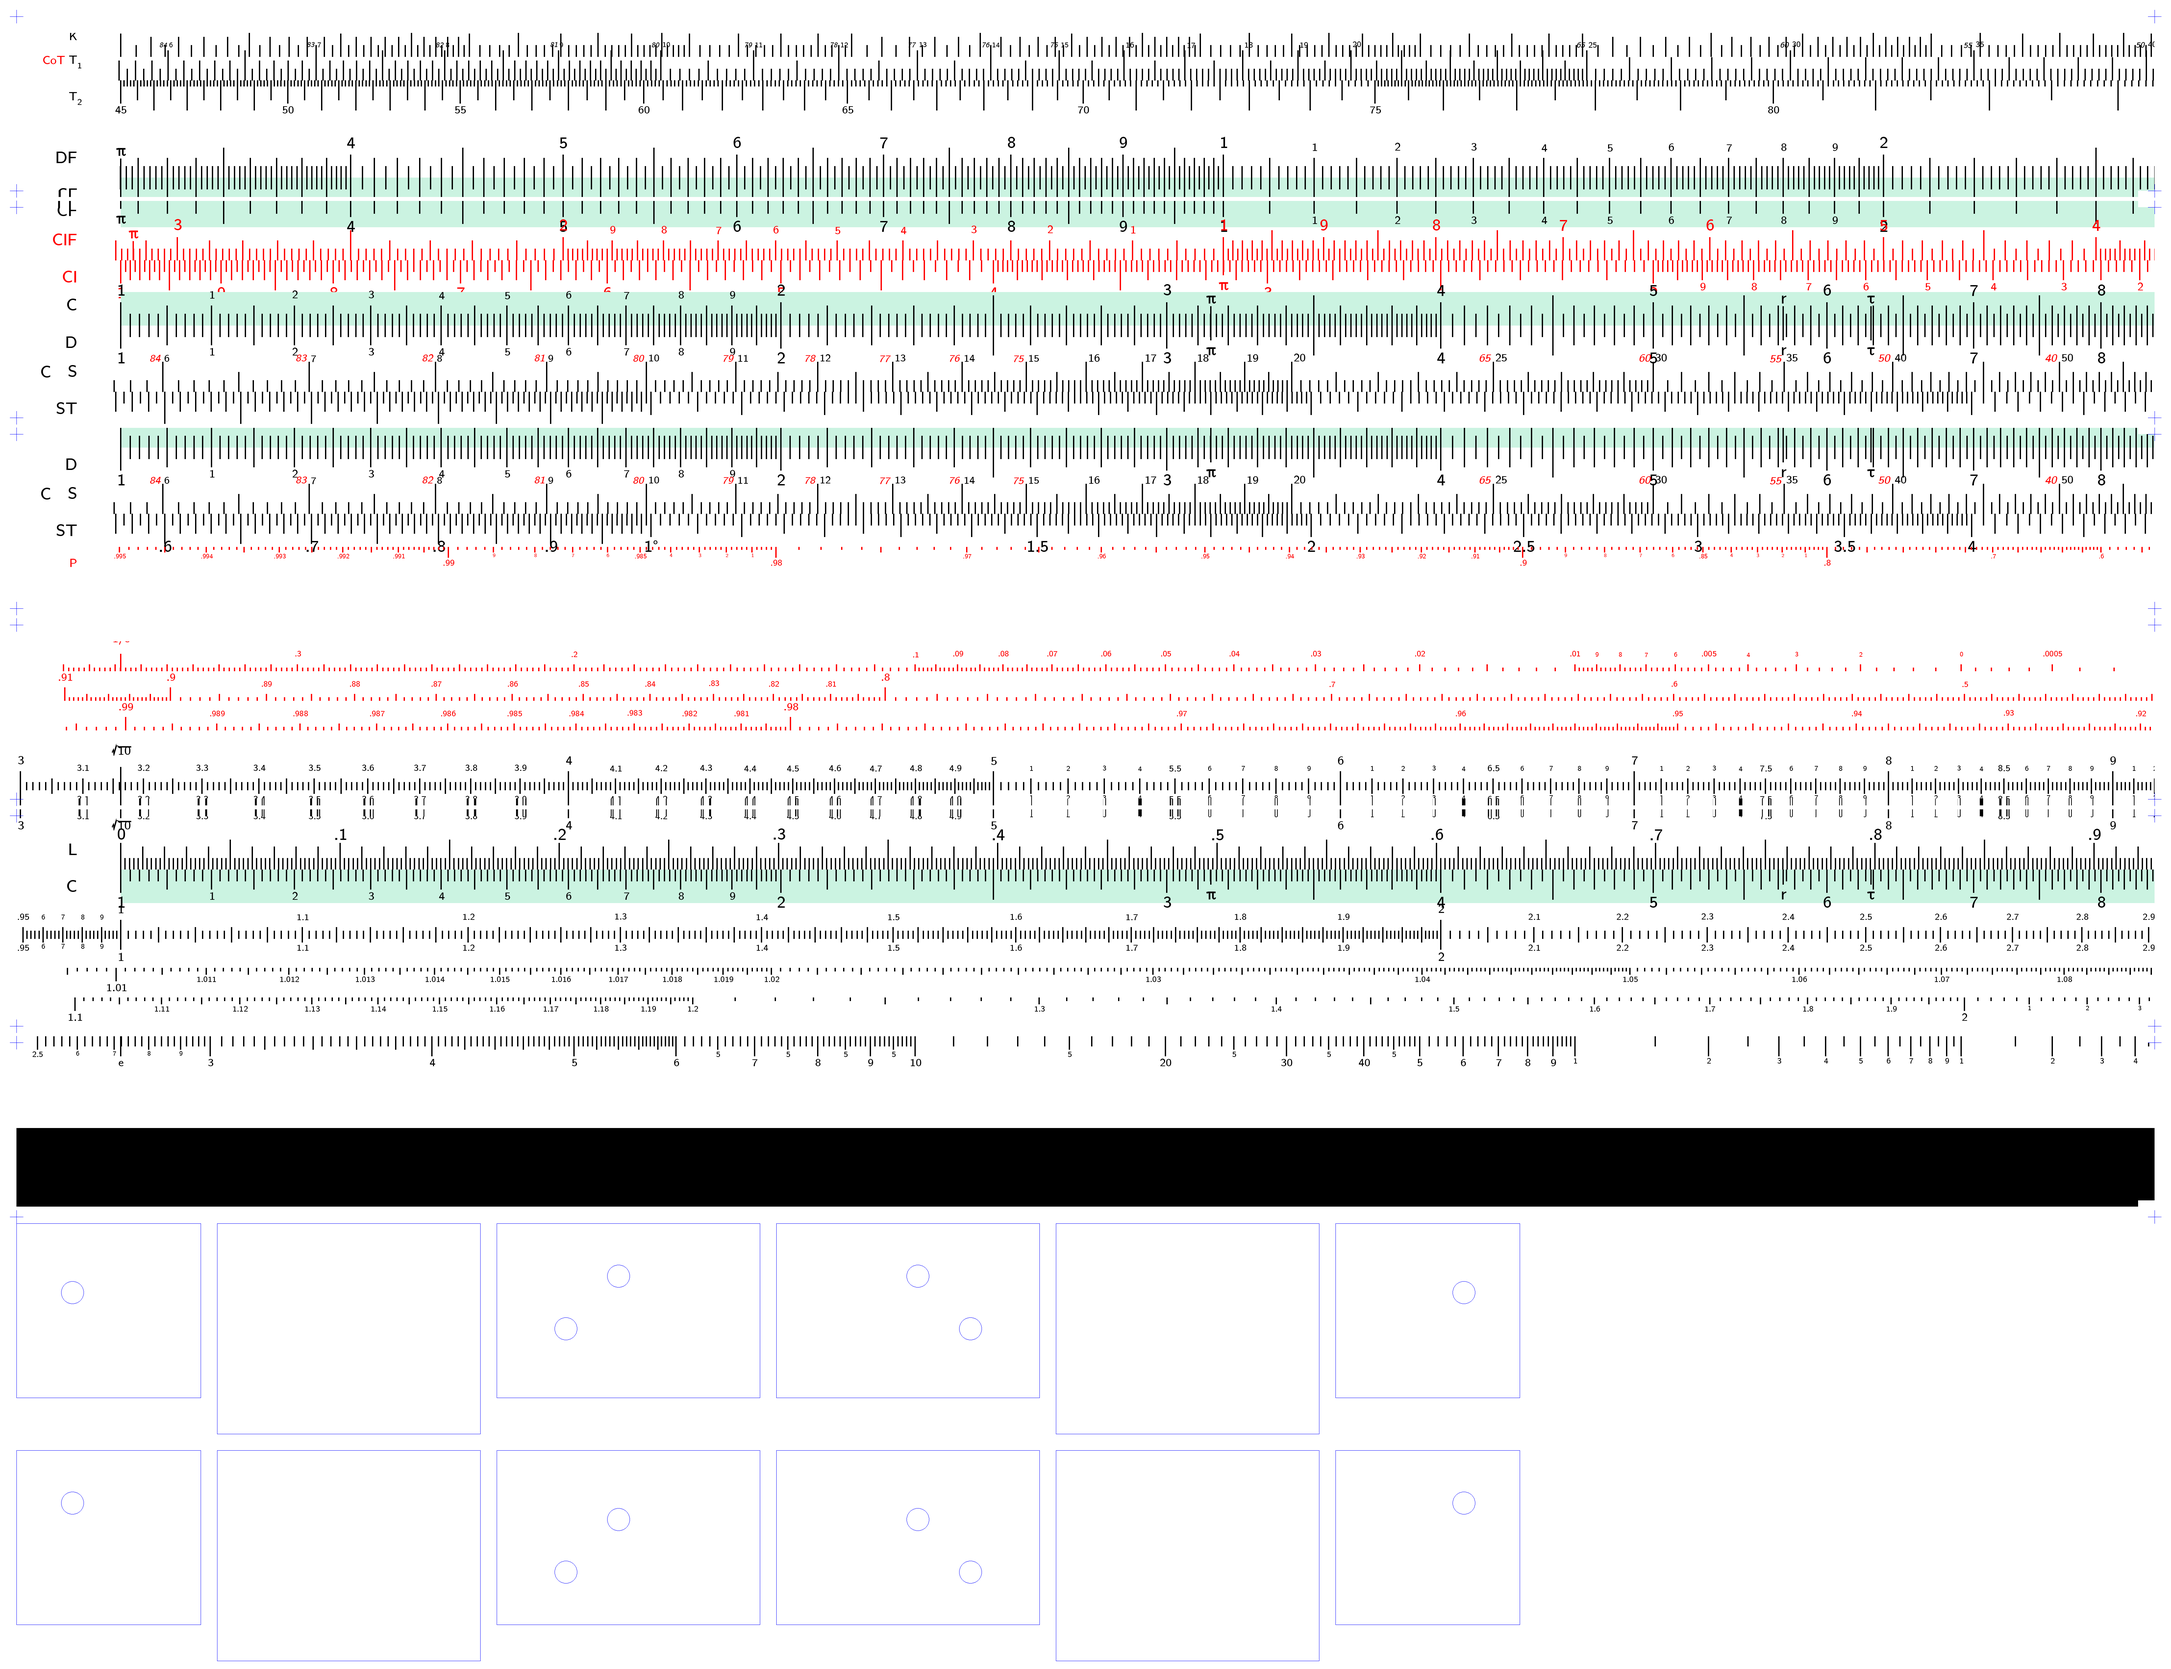
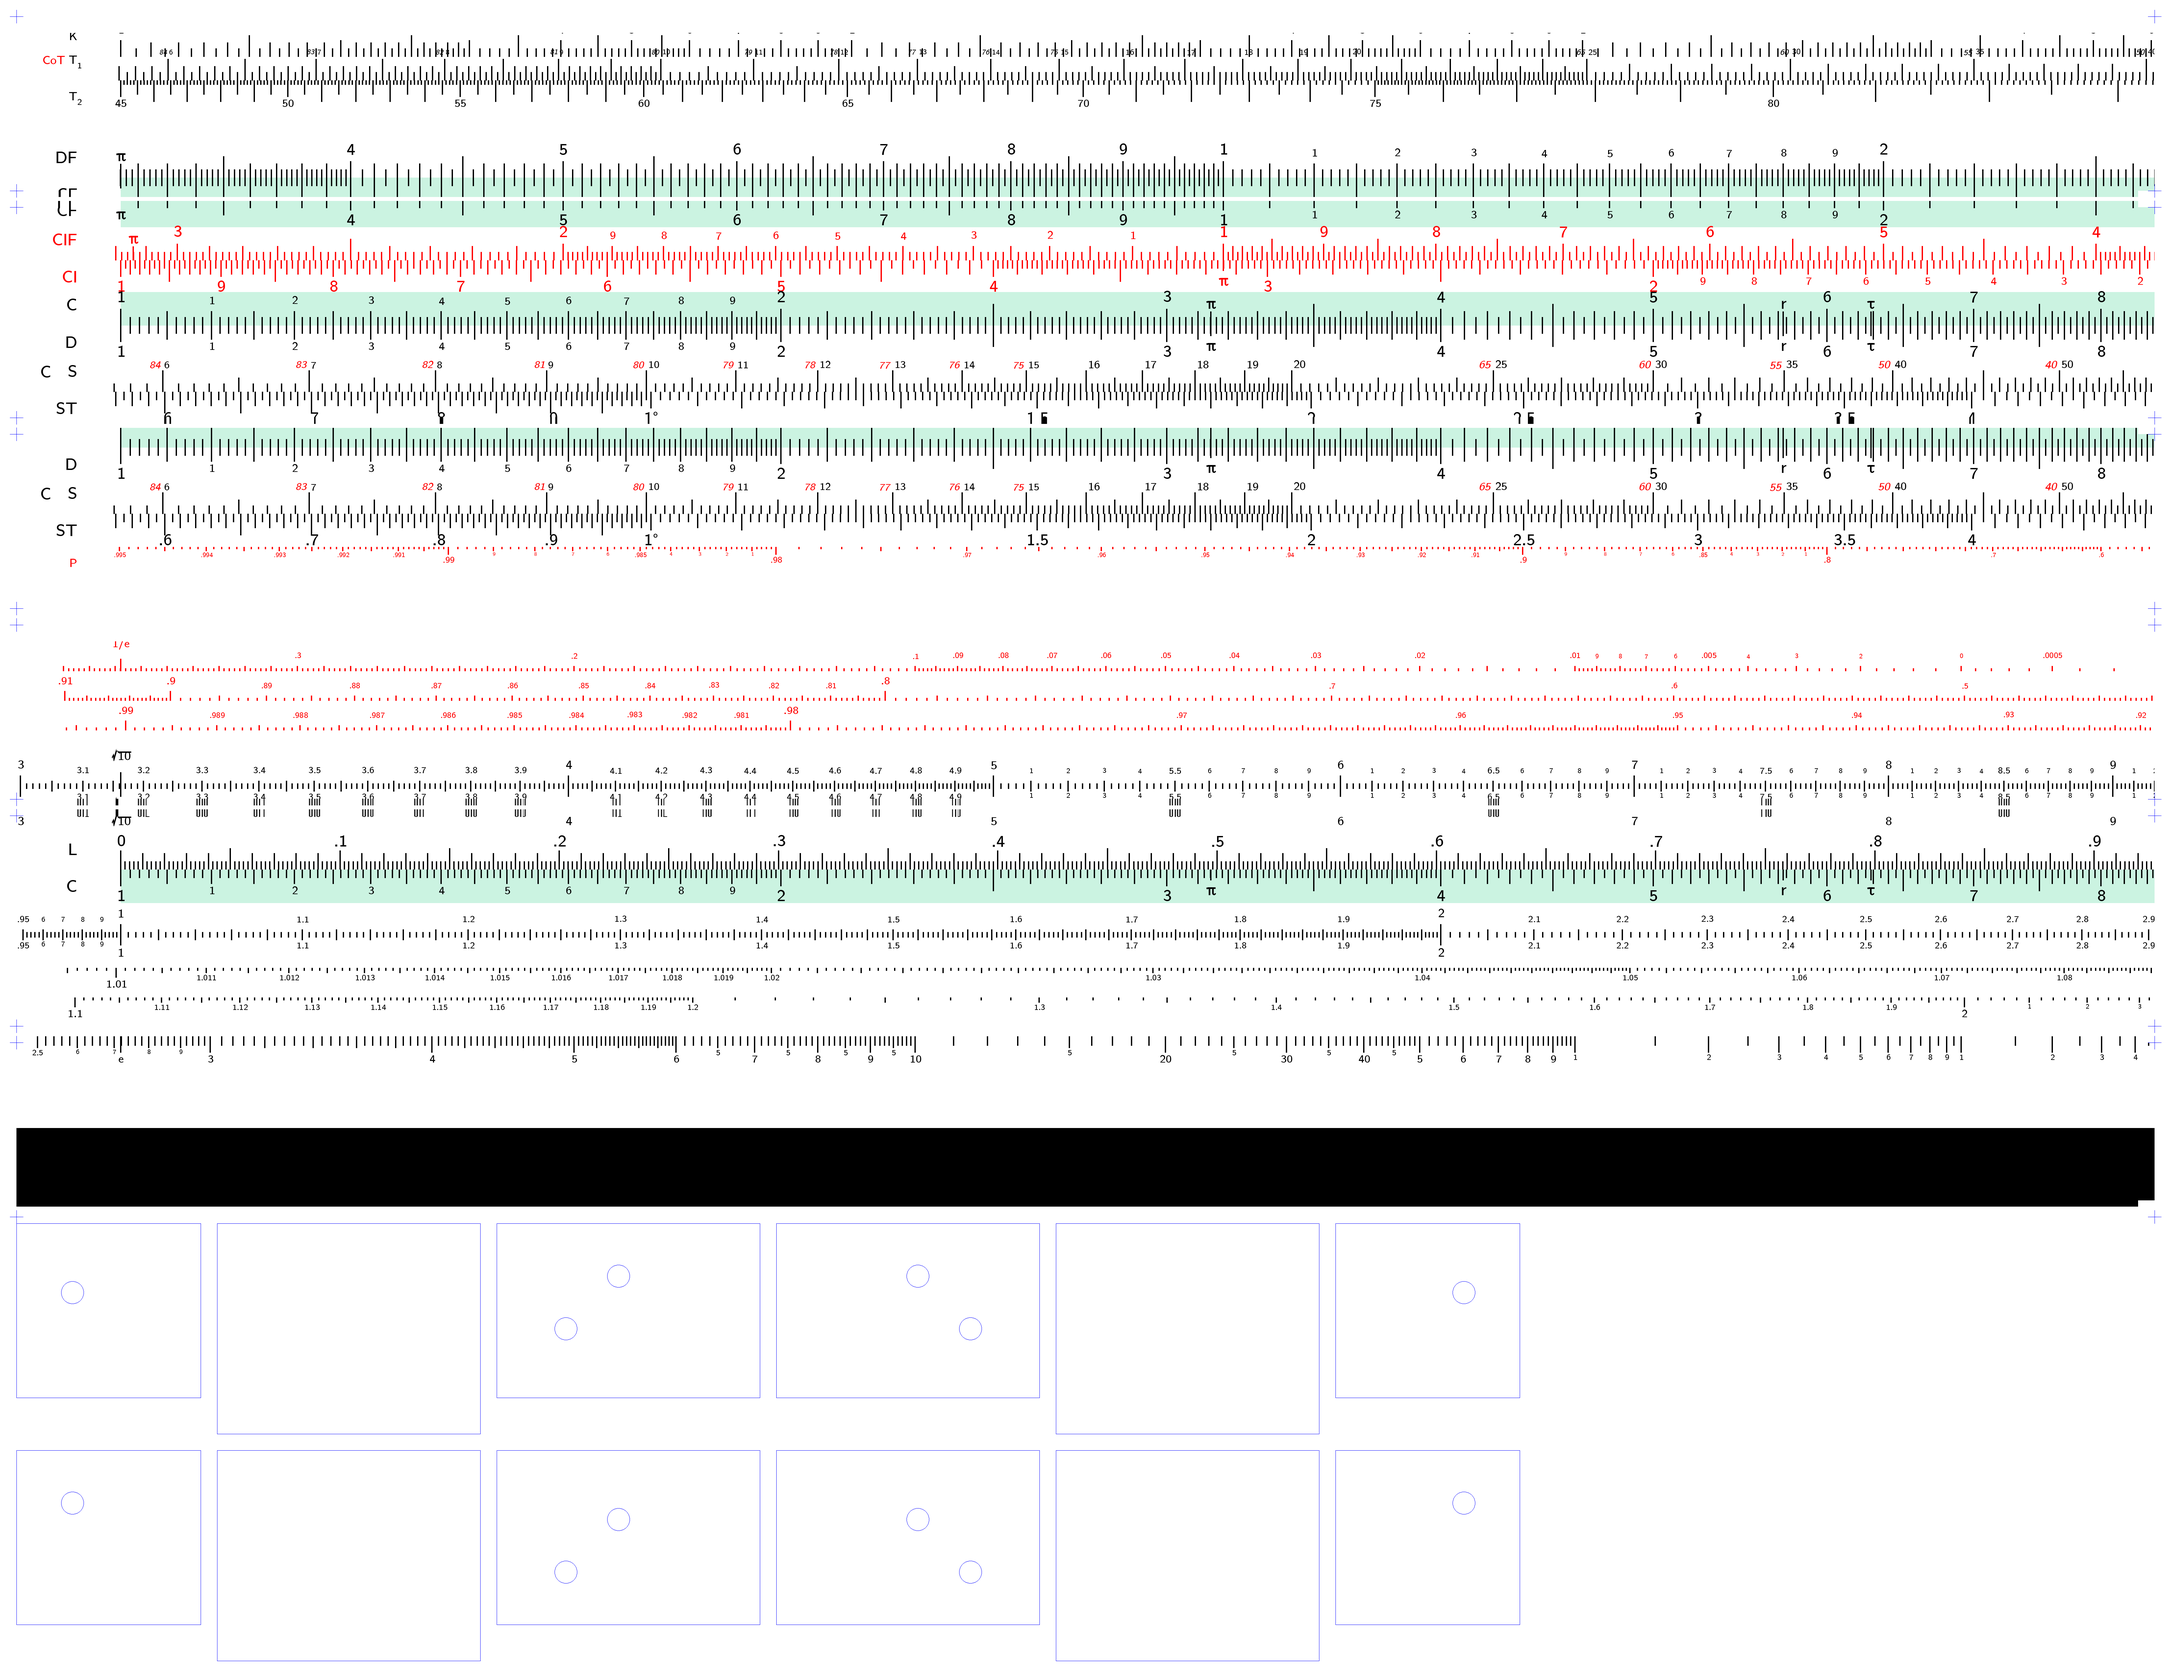
Renamed cutoff code to use the word "brace", internally, and then extended to support a C vs L pattern.
Arc support is TBD for fillets and for the "C" inset.

diff --git a/SlideRule.py b/SlideRule.py
@@ -242,10 +242,14 @@ class Geometry:
     scale_h_overrides: dict[Side, dict[str, int]] = {Side.FRONT: {}, Side.REAR: {}}
     margin_overrides: dict[Side, dict[str, int]] = {Side.FRONT: {}, Side.REAR: {}}
 
+    brace_shape: str = 'L'  # or C
+    brace_offset: int = 30  # offset of metal from boundary
+
     def __init__(self, side_wh: WH, margins_xy: WH, scale_wh: WH, tick_wh: WH,
                  slide_h: int, top_margin: int = None,
                  scale_h_overrides: dict[Side, dict[int: [str]]] = None,
-                 margin_overrides: dict[Side, dict[int: [str]]] = None):
+                 margin_overrides: dict[Side, dict[int: [str]]] = None,
+                 brace_shape: str = None, brace_offset: int = None):
         (self.side_w, self.side_h) = side_wh
         (self.oX, self.oY) = margins_xy
         (self.SL, self.SH) = scale_wh
@@ -268,6 +272,10 @@ class Geometry:
                 for h, sc_keys in side_overrides.items():
                     for sc_key in sc_keys:
                         self.margin_overrides[side][sc_key] = int(h)
+        if brace_shape:
+            self.brace_shape = brace_shape
+        if brace_offset:
+            self.brace_offset = brace_offset
 
     @classmethod
     def from_dict(cls, geometry_def):
@@ -300,8 +308,8 @@ class Geometry:
         return (self.side_h - self.slide_h) // 2
 
     @property
-    def cutoff_w(self):
-        """Default cutoff width ensures a square anchor piece."""
+    def brace_w(self):
+        """Brace width default, to ensure a square anchor piece."""
         return self.stator_h
 
     @property
@@ -349,43 +357,51 @@ class Geometry:
         default_scale_h = self.DEFAULT_SCALE_WH[1]
         return scale_h / default_scale_h if scale_h != default_scale_h else None
 
-    def cutoff_outline(self, y_off):
+    def brace_outline(self, y_off):
         """
-        Creates and returns the left cutoff piece outline in vectors as: (x1,x2,y1,y2)
-
-        ~Cute~little~visualization~
-
-        x_left x_mid x_right
-        0  ↓    ↓    ↓
-        ↓         1↓   ← 0
-                ┌────┐ ← y_top
-                │    │
-                │    │
-             4→ │    │ ←6
-                │    │
-                │    │
-             2↓ │    │
-           ┌────┘    │ ← y_mid
-        5→ │         │
-           │         │
-           └─────────┘ ← y_bottom
-               3↑      ← side_h
+        Creates and returns the left front brace piece outline in vectors as: (x1,x2,y1,y2)
+        Supports L or C shapes.
         """
-        side_h = self.side_h
-        cutoff_w = self.cutoff_w
-        b = 30  # offset of metal from boundary
+        b = self.brace_offset  # offset of metal from boundary
         x_left = b + self.oX
-        x_mid = x_left + cutoff_w // 2
-        x_right = cutoff_w - b + self.oX
+        x_mid = x_left + self.brace_w // 2
+        x_right = self.brace_w - b + self.oX
         y_top = b + y_off
-        y_mid = y_top + side_h - self.stator_h
-        y_bottom = side_h - b + y_off
-        return [(x_mid, x_right, y_top, y_top),  # 1
-                (x_left, x_mid, y_mid, y_mid),  # 2
-                (x_left, x_right, y_bottom, y_bottom),  # 3
-                (x_mid, x_mid, y_top, y_mid),  # 4
-                (x_left, x_left, y_mid, y_bottom),  # 5
-                (x_right, x_right, y_top, y_bottom)]  # 6
+        y_slide_top = y_off + self.stator_h - b
+        y_slide_bottom = y_top + self.side_h - self.stator_h
+        y_bottom = self.side_h - b + y_off
+        if self.brace_shape == 'L':
+            # x_left x_mid x_right
+            # 0  ↓    ↓    ↓
+            # ↓         1↓   ← 0
+            #         ┌────┐ ← y_top
+            #         │    │
+            #         │    │
+            #      4→ │    │ ←6
+            #         │    │
+            #         │    │
+            #      2↓ │    │
+            #    ┌────┘    │ ← y_slide_bottom
+            # 5→ │         │
+            #    │         │
+            #    └─────────┘ ← y_bottom
+            #        3↑      ← side_h
+            return [(x_mid, x_right, y_top, y_top),  # 1
+                    (x_left, x_mid, y_slide_bottom, y_slide_bottom),  # 2
+                    (x_left, x_right, y_bottom, y_bottom),  # 3
+                    (x_mid, x_mid, y_top, y_slide_bottom),  # 4
+                    (x_left, x_left, y_slide_bottom, y_bottom),  # 5
+                    (x_right, x_right, y_top, y_bottom)]  # 6
+        elif self.brace_shape == 'C':
+            return [(x_right, x_right, y_top, y_bottom),  # inside
+                    (x_left, x_right, y_top, y_top),  # top
+                    (x_left, x_right, y_bottom, y_bottom),  # bottom
+                    (x_left, x_left, y_top, y_slide_top),  # outside top
+                    (x_left, x_left, y_slide_bottom, y_bottom),  # outside bottom
+                    # TODO extend Renderer to handle arcs + replace with arc:
+                    (x_left, x_mid, y_slide_top, y_slide_top),  # arc top
+                    (x_mid, x_mid, y_slide_top, y_slide_bottom),  # arc inside
+                    (x_left, x_mid, y_slide_bottom, y_slide_bottom)]  # arc bottom
 
     def mirror_vectors_h(self, vectors: list[tuple[int, int, int, int]]):
         """(x1, x2, y1, y2) mirrored across the centerline"""
@@ -735,18 +751,18 @@ class Renderer:
         for horizontal_x in [half_stock_height + o_x, (total_w - half_stock_height) - o_x]:
             self.fill_rect(horizontal_x, y_start, 1, stator_h, color)
 
-    def draw_metal_cutoffs(self, y_off: int, side: Side):
+    def draw_brace_pieces(self, y_off: int, side: Side):
         """Draw the metal bracket locations for viewing"""
         # Initial Boundary verticals
         g = self.geometry
-        verticals = [g.cutoff_w + g.oX, g.total_w - g.cutoff_w - g.oX]
+        verticals = [g.brace_w + g.oX, g.total_w - g.brace_w - g.oX]
         for i, start in enumerate(verticals):
             self.fill_rect(start - 1, y_off, 2, i, Color.CUTOFF)
 
-        cutoff_fl = g.cutoff_outline(y_off)
+        brace_fl = g.brace_outline(y_off)
 
         # Symmetrically create the right piece
-        coords = cutoff_fl + g.mirror_vectors_h(cutoff_fl)
+        coords = brace_fl + g.mirror_vectors_h(brace_fl)
 
         # If backside, first apply a vertical reflection
         if side == Side.REAR:
@@ -1801,7 +1817,7 @@ def render_sliderule_mode(model: Model, sliderule_img=None, borders: bool = Fals
             y0 = y_front_start if side == Side.FRONT else y_rear_start
             r.draw_borders(y0, side)
             if cutoffs:
-                r.draw_metal_cutoffs(y0, side)
+                r.draw_brace_pieces(y0, side)
     return sliderule_img
 
 
